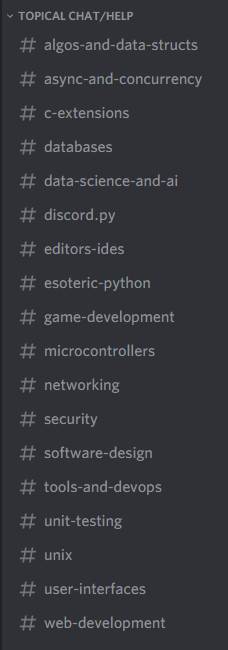
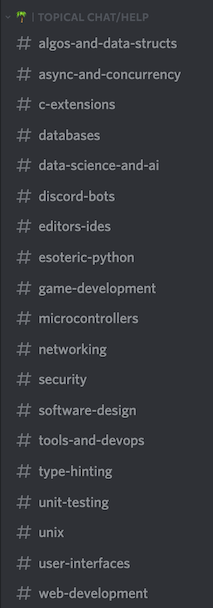
Update content
Update some screenshot images to reflect emoji used in category names
Break up some of the FAQ questions into smaller questions
Mention the !helpdm on command added in 2021
Mention the channel claimed embed added in 2022
Culling of content to focus on information pertaining to getting help

Changed region(s): [[0.0845, 0.0, 0.9014, 1.0], [0.6761, 0.0, 0.7042, 0.0312]]

diff --git a/pydis_site/apps/content/resources/guides/pydis-guides/help-channel-guide.md b/pydis_site/apps/content/resources/guides/pydis-guides/help-channel-guide.md
@@ -10,14 +10,13 @@ relevant_links:
 
 On the 5th of April 2020, we introduced a new help channel system at Python Discord. This article is a supplementary guide to explain precisely where to go to find help.
 
-We have two different kinds of help channels in our community - **Topical help channels**, and **general help channels**.
-Where you should go depends on what you need help with.
-These channels also attract different helpers, and move at different speeds, which affects the kind of help you're likely to receive, and how fast you get that help.
+We have two different kinds of help channels in our community: **topical help channels** and **general help channels**.
+The topical channels can be great for longer and broader discussions, whereas a general help channel might be more appropriate for specific troubleshooting. Individual topical channels may have a narrower audience than the general help channels, but that may also be to your advantage if the audience is very familiar with the area of Python you are struggling with.
 
 # Topical Help Channels
 
 The topical help channels move at a slower pace than the general help channels.
-They also sometimes attract domain experts - for example, `#async-and-concurrency` has CPython contributors who helped write asyncio, and in `#game-development` you can find the creators and maintainers of several game frameworks.
+They also sometimes attract domain experts. For example, `#async-and-concurrency` has CPython contributors who helped write asyncio, and in `#game-development` you can find the creators and maintainers of several game frameworks.
 If your question fits into the domain of one of our topical help channels, and if you're not in a big hurry, then this is probably the best place to ask for help.
 
 ![List of topical help channels](/static/images/content/help_channels/topical_channels.png)
@@ -29,51 +28,66 @@ Each channel on the server has a channel description which briefly describes the
 
 # General Help Channels
 
-Our general help channels cycle quickly, with the advantage of attracting a more diverse spectrum of helpers, and getting individual attention and help for your question. These channels are a great choice for generic Python questions, but they can be used for domain-specific Python help as well.
-Be sure to [ask good questions](../asking-good-questions) in order to give yourself the best chances of getting help.
+Our general help channels cycle quickly, with the advantage of attracting a more diverse spectrum of helpers, and getting individual focus and attention on your question. These channels are a great choice for generic Python help, but can be used for domain-specific Python help as well.
 
-## How To Claim a Channel
+## How to Claim a Channel
 
-There are always 3 available help channels waiting to be claimed in the **Python Help: Available** category.
+There are always three help channels waiting to be claimed in the **Available Help Channels** category.
 
 ![Available help channels](/static/images/content/help_channels/available_channels.png)
+*The Available Help Channels category is always at the top of the server's channel list.*
 
-This message is posted when a channel becomes available for use:
-![Channel available message](/static/images/content/help_channels/available_message.png)
+![Available message](/static/images/content/help_channels/available_message.png)
+*This message indicates that a channel is available.*
 
-In order to claim one, simply start typing your question into one of these channels. Once your question is posted, you have claimed this channel it will be moved down to the **Occupied Help Channels** category.
+In order to claim one, simply ask your question into one of the available channels. Be sure to [ask good questions](../asking-good-questions) in order to give yourself the best chances of getting help!
 
-At this point you will have the **Help Cooldown** role which will remain on your profile until your help channel is closed (with the `!closed` command) or goes dormant due to inactivity.
+![Channel claimed embed](/static/images/content/help_channels/claimed_channel.png)
+*This messages indicates that you've claimed the channel.*
 
-# Frequently Asked Questions
+At this point you will have the **Help Cooldown** role which will remain on your profile until your help channel is closed (with the `!close` command) or goes dormant due to inactivity. This ensures that users can claim only one help channel at any given time, giving everyone a chance to have their question seen.
 
-## Q: How long does my help channel stay active?
+## Frequently Asked Questions
 
-The channel remains open for **30 minutes** after your last message, but if another user posts in your channel, the closing will be delayed by 10 minutes.
+### Q: How long does my help channel stay active?
 
-*You'll see this message in your channel once it goes dormant:*
+The channel remains open for **30 minutes** after your last message, or 10 minutes after the last message sent by another user (whichever time comes later).
+
 ![Channel dormant message](/static/images/content/help_channels/dormant_message.png)
+*You'll see this message in your channel once it goes dormant.*
+### Q: No one answered my question. How come?
 
-## Q: No one answered my question. How come?
+The server has users active all over the world and all hours of the day, but some time periods are less active than others. It's also possible that the users that read your question didn't have the knowledge required to help you. If no one responded, feel free to claim another help channel a little later.
 
-The server has users active all over the world and all hours of the day, but some days are less active than others. If no one answered your question, feel free to claim another help channel a little later.
+If you feel like your question is continuously being overlooked, read our guide on [asking good questions](../asking-good-questions) to incease your chances of getting a response.
 
-If you still feel like your question is being overlooked, read our guide on [asking good questions](../asking-good-questions) to incease your chances of getting a response.
+### Q: My question was answered. What do I do?
 
-## Q: I don't need my help channel anymore, my question was answered. What do I do?
+Go ahead use the `!close` command if you've satisfactorily solved your problem. You will only be able to run this command in your own help channel, and no one (outside of staff) will be able to close your channel for you.
 
-Go ahead and move your channel to the dormant category by running the `!closed` command. You will only be able to run this command in your own help channel, and likewise no one will be able to prematurely close your claimed help channel (with the exception of staff).
+Closing your help channel once you are finished leads to less occupied channels, which means more attention can be given to other users that still need help.
 
-## Q: Can only Helpers answer help questions?
+### Q: Can only Helpers answer help questions?
 
 Definitely not! We encourage all members of the community to participate in giving help. If you'd like to help answer some questions, head over to the **Occupied Help Channels** or **Topical Chat/Help** categories.
 
 Before jumping in, please read our guide on [helping others](../helping-others) which explains our expectations for the culture and quailty of help that we aim for on the server.
 
-## Q: I lost my help channel!
+Tip: run the `!helpdm on` command in `#bot-commands` to get notified via DM with jumplinks to help channels you're participating in.
 
-No need to panic.
-Your channel was probably just marked as dormant.
+### Q: What are the available, occupied, and dormant categories?
+
+The three help channels under **Available Help Channels** are free for anyone to claim. Claimed channels are then moved to **Occupied Help Channels**. Once they close, they are moved to the **Python Help: Dormant** category until they are needed again for **Available Help Channels**.
+
+### Q: Can I save my help session for future reference?
+
+Yes! Because the help channels are continuously cycled in and out without being deleted, this means you can always refer to a previous help session if you found one particularly helpful.
+
+Tip: reply to a message and run the `.bm` command to get bookmarks sent to you via DM for future reference.
+
+### Q: I lost my help channel!
+
+No need to panic. Your channel was probably just closed due to inactivity.
 All the dormant help channels are still available at the bottom of the channel list, in the **Python Help: Dormant** category, and also through search.
 If you're not sure what the name of your help channel was, you can easily find it by using the Discord Search feature.
 Try searching for `from:<your nickname>` to find the last messages sent by yourself, and from there you will be able to jump directly into the channel by pressing the Jump button on your message.
